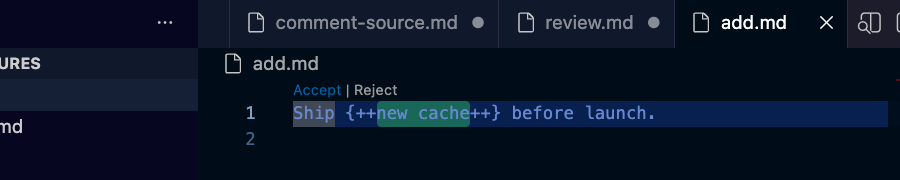
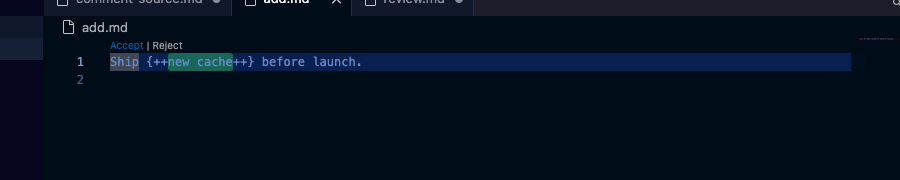
fix: use full-window GIF and simplify README visuals

diff --git a/scripts/generate-visual-assets.js b/scripts/generate-visual-assets.js
@@ -57,11 +57,23 @@ async function configureWorkbench(page) {
   await dismissNoise(page);
   await runCommand(page, 'View: Close Secondary Side Bar');
   await runCommand(page, 'View: Appearance: Hide Panel');
-  await runCommand(page, 'View: Zoom In');
-  await runCommand(page, 'View: Zoom In');
+  await runCommand(page, 'View: Reset Zoom');
+}
+
+async function setWindowBounds(app) {
+  await app.evaluate(({ BrowserWindow }) => {
+    const win = BrowserWindow.getAllWindows()[0];
+    if (!win) {
+      throw new Error('No BrowserWindow available');
+    }
+    win.setBounds({ x: 40, y: 40, width: 1280, height: 960 });
+    win.show();
+    win.focus();
+  });
 }
 
 async function openFile(page, fileName) {
+  await runCommand(page, 'View: Close All Editors');
   await page.keyboard.press('Meta+P');
   await page.waitForTimeout(250);
   await page.keyboard.type(fileName);
@@ -223,6 +235,8 @@ async function createAcceptEditsScenario(page) {
 
   try {
     const page = await app.firstWindow();
+    await setWindowBounds(app);
+    await page.waitForTimeout(1200);
     await page.setViewportSize(VIEWPORT);
     await configureWorkbench(page);
 

diff --git a/README.md b/README.md
@@ -24,35 +24,7 @@ code --install-extension xinbenlv.critique-markup-vscode-ext
 
 ## Visual tour
 
-### Full workflow overview
-
 ![Critque Markup overview](assets/screenshots/overview.gif)
-
-### Full feature view
-
-![Full feature view](assets/screenshots/01-full-feature.png)
-
-### Adding comment over
-
-![Adding comment over](assets/screenshots/02-adding-comment-over.png)
-
-### Accepting edits
-
-![Accepting edits](assets/screenshots/03-accepting-edits.png)
-
-### Focused examples
-
-| Addition | Deletion |
-| --- | --- |
-| ![Addition rendering](assets/screenshots/add.png) | ![Deletion rendering](assets/screenshots/delete.png) |
-
-| Substitution | Comment over |
-| --- | --- |
-| ![Substitution rendering](assets/screenshots/substitute.png) | ![Comment highlight](assets/screenshots/comment-over.png) |
-
-| Gutter bubble | Hover bubble |
-| --- | --- |
-| ![Gutter bubble](assets/screenshots/gutter-bubble.png) | ![Tooltip bubble](assets/screenshots/tooltip-bubble.png) |
 
 ## What it does
 
